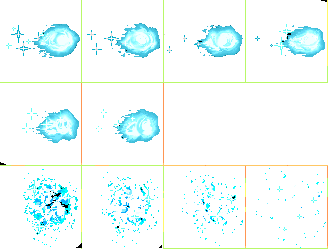
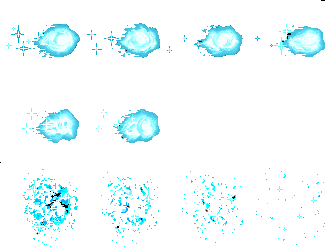
completed special attacks animation

diff --git a/oop2_project_Alexander1_Yershov1_Anael2_Zateikin2/src/Animation.cpp b/oop2_project_Alexander1_Yershov1_Anael2_Zateikin2/src/Animation.cpp
@@ -19,16 +19,17 @@ Animation::~Animation()
 bool Animation::update (sf::Time delta, Action action)
 {
     m_elapsed += delta;
-    auto x = 0;
+    
     if (m_elapsed >= m_animationTime)
     {
         m_elapsed -= m_animationTime;
         ++m_index;
 
-        //export to a new update with new parameters (different animationtime)
+        // case special attack completed a hit
         if (action.first == ActionType::hit && m_index == m_animeMap.m_data.find(action.first)->second.size())
             return true;
-            
+        burnigFreezingCase(action);
+
         m_index %= m_animeMap.m_data.find(action.first) ->second.size();
         update(action);
     }
@@ -43,6 +44,17 @@ void Animation::update(Action action)
     //if ((action.second == Direction::Left && m_sprite.getScale().x > 0) ||
     //    (action.second == Direction::Right && m_sprite.getScale().x < 0))
     //    m_sprite.scale(-1, 1);
+}
+
+void Animation::burnigFreezingCase(Action action)
+{
+    // case character is burning or freezing
+    if ((action.first == ActionType::Freezing || action.first == ActionType::Burning)
+        && m_index == m_animeMap.m_data.find(action.first)->second.size() - 1)
+    {
+        update(action);
+        m_index--;
+    }
 }
 
 // update animation for special dynamic attack

diff --git a/oop2_project_Alexander1_Yershov1_Anael2_Zateikin2/src/ResourcesManager.cpp b/oop2_project_Alexander1_Yershov1_Anael2_Zateikin2/src/ResourcesManager.cpp
@@ -149,27 +149,28 @@ AnimeMap ResourcesManager::staticFireData() const
 
 AnimeMap ResourcesManager::staticIceData() const
 {
-    const auto size = sf::Vector2i(80, 80);
-    const auto initSpace = sf::Vector2i(1, 2);
+    const auto size = sf::Vector2i(125, 120);
+    const auto initSpace = sf::Vector2i(7, 2);
 
     auto iceObj = AnimeMap{};
-    auto currentStart = initSpace;
+    auto currentStart = sf::Vector2i(0, 0);
 
     auto nextStart = [&]()
     {
         currentStart.x += size.x;
-        if (currentStart.x > size.x * 5)
+        currentStart.x += initSpace.x;
+        if (currentStart.x > size.x * 6)
         {
-            currentStart.x %= size.x * 5;
+            currentStart.x %= size.x * 6;
             currentStart.y += size.y;
         }
 
         return currentStart;
     };
 
-    for (int repeat = 0; repeat < 21; repeat++)  nextStart();
     iceObj.m_data[ActionType::Standing].emplace_back(currentStart, size);
-    for (int repeat = 0; repeat < 6; repeat++)  iceObj.m_data[ActionType::hit].emplace_back(nextStart(), size);
+    iceObj.m_data[ActionType::hit].emplace_back(currentStart, size);
+    for (int repeat = 0; repeat < 5; repeat++)  iceObj.m_data[ActionType::hit].emplace_back(nextStart(), size);
 
     return iceObj;
 }

diff --git a/oop2_project_Alexander1_Yershov1_Anael2_Zateikin2/src/Character/Character.cpp b/oop2_project_Alexander1_Yershov1_Anael2_Zateikin2/src/Character/Character.cpp
@@ -75,20 +75,36 @@ sf::Vector2f Character::getOrigin()
 	return m_picture.getOrigin();
 }
 
+sf::FloatRect Character::getBoundingRectangle() const
+{
+	return m_picture.getGlobalBounds();
+}
+
 float Character::x() const
 {
 	return m_picture.getPosition().x;
-}
-
-float Character::y() const
-{
-	return m_picture.getPosition().y;
 }
 
 bool Character::enoughMana(ActionType attack) const
 {
 	if (attack == ActionType::SpecialDynamic && m_mana >= 30 ||
 		attack == ActionType::SpecialStatic && m_mana >= 20)
+		return true;
+	return false;
+}
+
+bool Character::inDisabledState(const sf::Time& deltaTime)
+{
+	if (m_action.first == ActionType::Burning && m_disabled.getElapsedTime().asSeconds() < 0.5f)
+	{
+		m_picture.move(convert(opposite(m_action.second)) * m_speed * deltaTime.asSeconds());
+		// health.decreaseHealth(deltaTime.asSeconds() * BURNING_DAMAGE);
+		return true;
+	}
+	if (m_action.first == ActionType::Freezing && m_disabled.getElapsedTime().asSeconds() < 2.f)
+		return true;
+	if ((m_action.first == ActionType::SpecialDynamic || m_action.first == ActionType::SpecialStatic) &&
+		m_disabled.getElapsedTime().asSeconds() < 0.3)
 		return true;
 	return false;
 }

diff --git a/oop2_project_Alexander1_Yershov1_Anael2_Zateikin2/src/Arena.cpp b/oop2_project_Alexander1_Yershov1_Anael2_Zateikin2/src/Arena.cpp
@@ -1,6 +1,7 @@
 #include "Arena.h"
 #include "Character/Player.h"
 #include "Character/Enemy.h"
+#include <algorithm>
 
 Arena::Arena()
 {
@@ -48,11 +49,15 @@ void Arena::setArenaBackground(ArenaType arenaType)
 	m_ground.setPosition({ 0,float(WINDOW_HEIGHT - TERRAIN_HIGHT) });
 }
 
+bool sortingByLocation(GameObject* first, GameObject* second) { return first->y() < second->y(); }
+
 void Arena::draw(sf::RenderWindow& window) const
 {
 	window.draw(m_background);
 	window.draw(m_ground);
 	
+	std::sort(m_gameObjects.begin(), m_gameObjects.end(), sortingByLocation);
+
 	for (const auto& object : m_gameObjects)
 		object->draw(window);
 }

diff --git a/oop2_project_Alexander1_Yershov1_Anael2_Zateikin2/src/Utillities.cpp b/oop2_project_Alexander1_Yershov1_Anael2_Zateikin2/src/Utillities.cpp
@@ -17,14 +17,3 @@ void correctDir(sf::Sprite& pic, Direction dir)
 		(dir == Direction::Right && pic.getScale().x < 0))
 		pic.scale(-1, 1);
 }
-
-bool inDisabledState(ActionType state, sf::Time timePassed)
-{
-	if ((state == ActionType::Burning || state == ActionType::Freezing) &&
-		timePassed.asSeconds() < 1.f)
-		return true;
-	if ((state == ActionType::SpecialDynamic || state == ActionType::SpecialStatic) &&
-		timePassed.asSeconds() < 0.3)
-		return true;
-	return false;
-}

diff --git a/oop2_project_Alexander1_Yershov1_Anael2_Zateikin2/src/specialAttack/StaticAttack.cpp b/oop2_project_Alexander1_Yershov1_Anael2_Zateikin2/src/specialAttack/StaticAttack.cpp
@@ -4,7 +4,8 @@ StaticAttack::StaticAttack(const sf::Vector2f& location, AttackType attack, Char
 	: SpecialAttack(location, attack, owner)
 {
 	m_action = Action(ActionType::hit, Direction::Stay);
-	m_picture.setPosition(location.x - 35, location.y - 70);
+	auto block = owner->getBoundingRectangle();
+	m_picture.setPosition(block.left, block.top);	// position on center-down
 }
 
 void StaticAttack::update(const sf::Time& deltaTime)

diff --git a/oop2_project_Alexander1_Yershov1_Anael2_Zateikin2/include/Character/Character.h b/oop2_project_Alexander1_Yershov1_Anael2_Zateikin2/include/Character/Character.h
@@ -19,6 +19,7 @@ public:
 	Direction getDirection() const;
 	Direction getFacingDirection() const;
 	sf::Vector2f getOrigin();
+	sf::FloatRect getBoundingRectangle() const;
 	~Character();
 protected:
 	Animation m_animation;
@@ -29,8 +30,8 @@ protected:
 
 	float operator-(const sf::Vector2f*) const;
 	float x() const;
-	float y() const;
 	bool enoughMana(ActionType) const;
+	bool inDisabledState(const sf::Time&);
 private:
 
 };

diff --git a/oop2_project_Alexander1_Yershov1_Anael2_Zateikin2/src/Character/ManaAndHealth.cpp b/oop2_project_Alexander1_Yershov1_Anael2_Zateikin2/src/Character/ManaAndHealth.cpp
@@ -56,9 +56,9 @@ void ManaAndHealth::decreaseHealth(float value)
 	m_healthBar.update(-value, MAX_HEALTH);
 }
 
-void ManaAndHealth::decrease(float& bar,float value) 
-{
-	bar -= value;
-	if (bar < 0)
-		bar = 0;	//set to zero
-}
+//void ManaAndHealth::decrease(float& bar,float value) 
+//{
+//	bar -= value;
+//	if (bar < 0)
+//		bar = 0;	//set to zero
+//}

diff --git a/oop2_project_Alexander1_Yershov1_Anael2_Zateikin2/src/Character/Player.cpp b/oop2_project_Alexander1_Yershov1_Anael2_Zateikin2/src/Character/Player.cpp
@@ -11,7 +11,7 @@ Player::Player(const sf::Vector2f& location , CharacterType character)
 
 void Player::move(const sf::Time& deltaTime, Arena& arena)
 {
-    if (inDisabledState(m_action.first, m_disabled.getElapsedTime()))
+    if (inDisabledState(deltaTime))
         return;
     m_action = getActionFromKey(arena);
 

diff --git a/oop2_project_Alexander1_Yershov1_Anael2_Zateikin2/src/Character/Enemy.cpp b/oop2_project_Alexander1_Yershov1_Anael2_Zateikin2/src/Character/Enemy.cpp
@@ -15,7 +15,7 @@ Enemy::Enemy(std::vector<const sf::Vector2f*>& ply, const sf::Vector2f& location
 
 void Enemy::move(const sf::Time& deltaTime, Arena& arena)
 {
-	if (inDisabledState(m_action.first, m_disabled.getElapsedTime()))
+	if (inDisabledState(deltaTime))
 		return;
 	engageClosestPlayer(arena);
 

diff --git a/oop2_project_Alexander1_Yershov1_Anael2_Zateikin2/src/GameObject.cpp b/oop2_project_Alexander1_Yershov1_Anael2_Zateikin2/src/GameObject.cpp
@@ -22,3 +22,8 @@ bool GameObject::collidesWith(const GameObject& other) const
 {
 	return m_picture.getGlobalBounds().intersects(other.m_picture.getGlobalBounds());
 }
+
+float GameObject::y() const
+{
+	return m_picture.getPosition().y;
+}

diff --git a/oop2_project_Alexander1_Yershov1_Anael2_Zateikin2/include/Animation.h b/oop2_project_Alexander1_Yershov1_Anael2_Zateikin2/include/Animation.h
@@ -15,7 +15,7 @@ public:
 
 private:
 	void update(Action);
-
+	void burnigFreezingCase(Action);
 	const AnimeMap& m_animeMap;
 	sf::Time m_elapsed = {};
 	sf::Time m_animationTime;
